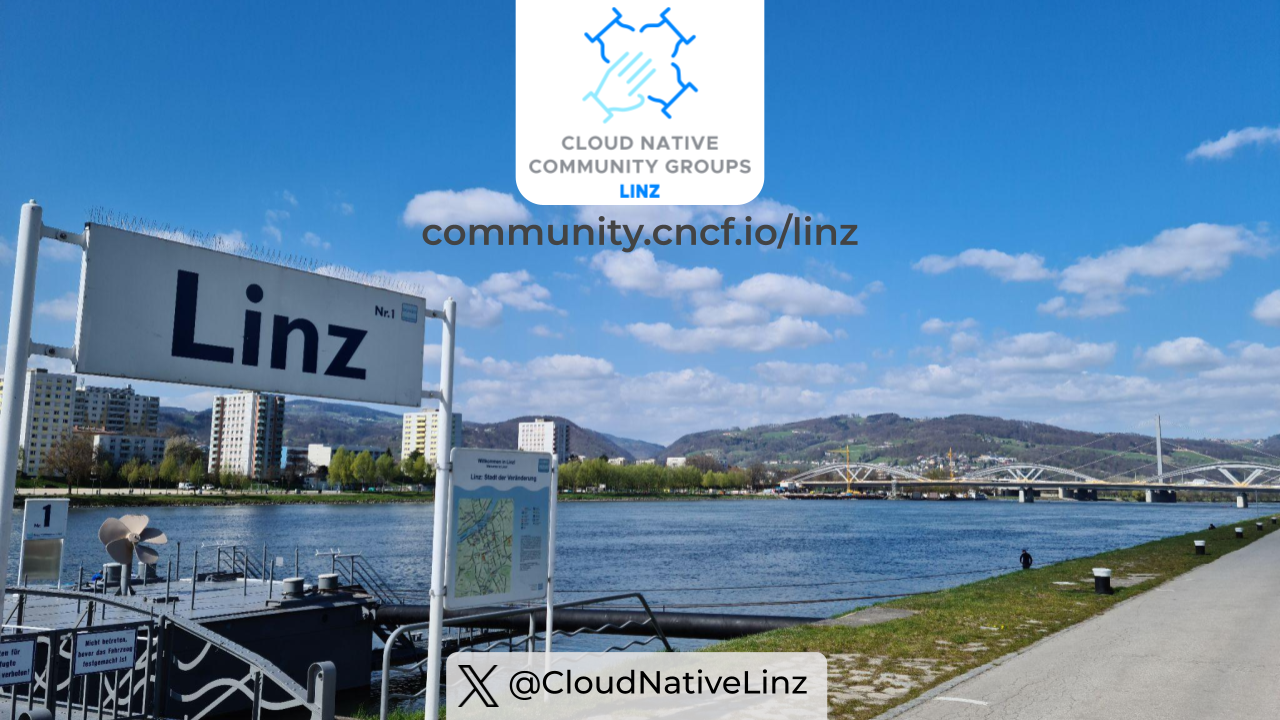
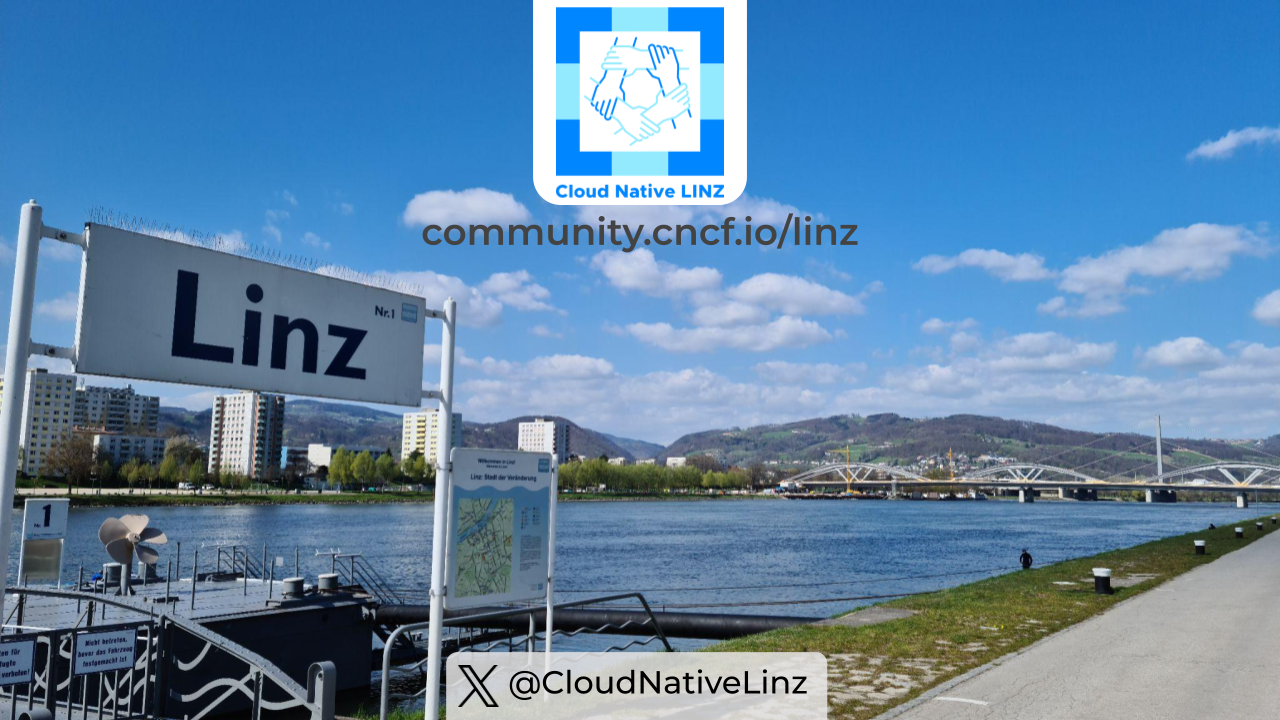
Update branding and team page

Changed region(s): [[0.375, 0.0, 0.625, 0.3056]]

diff --git a/_pages/team.md b/_pages/team.md
@@ -12,7 +12,9 @@ The meetup group is organized by two co-organizers, Juliano and Jürgen.
 <img src="{{ site.baseurl }}/images/juliano.jpg" width="200">
 </div>
 
-Juliano is Senior Software Engineer at Dynatrace Austria, working with all cloud related topics. In the last couple of years mainly focused in OpenTelemetry, he also has experience with Kubernetes, Helm, Containers, Jenkins and so on. Juliano is one of the maintainers of the CNCF project [OpenTelemetry Community Demo](https://github.com/open-telemetry/opentelemetry-demo), which is a microservice-based distributed system intended to illustrate the implementation of OpenTelemetry in a near real-world environment. He believes in the power of the community and this is why he joined forces with Jürgen to build the Cloud Native Computing Linz meetup. You can find more about him in his [LinkedIn profile](https://www.linkedin.com/in/julianocosta89/), where he is happy to connect with everyone.
+Juliano Costa is a software engineer/developer advocate born and raised in Brazil who loves learning new things. In the last couple of years he has put his efforts into cloud technologies and got super excited about it, which made him start a Cloud Native Community Group together with a colleague in Linz (Austria), where he lives now. Besides that he is also a maintainer of the [OpenTelemetry Demo](https://github.com/open-telemetry/opentelemetry-demo). When he is not working with k8s and OpenTelemetry, he is probably spending some time with his wife and his newly deployed baby.
+
+You can find more about him in his [LinkedIn profile](https://www.linkedin.com/in/julianocosta89/), where he is happy to connect with everyone.
 
 <div style="clear:both;"></div>
 

diff --git a/_pages/statistics.md b/_pages/statistics.md
@@ -37,3 +37,4 @@ permalink: /statistics/
 | 26 | [Cloud Native Linz, October 18, 2023 - Testing K8s Operators & OpenTelemetry for Logs](https://community.cncf.io/events/details/cncf-linz-presents-cloud-native-linz-october-18-testing-k8s-operators-amp-opentelemetry-for-logs/) |  | 27 | in person only |
 | 27 | [Cloud Native Linz, November 21, 2023 - GitOps and Testing Cloud Environments](https://community.cncf.io/events/details/cncf-linz-presents-cloud-native-linz-november-21-gitops-and-testing-cloud-environments/) |  | 41 | in person only |
 | 28 | [Cloud Native Linz - January 24 - Cloud Adventure and Cloud Native Sustainability](https://community.cncf.io/events/details/cncf-linz-presents-cloud-native-linz-january-24-cloud-adventure-and-cloud-native-sustainability/) |  | 31 | in person only |
+| 29 | [Cloud Native Linz - February 27 - Access Control and Platforms with Devs in Mind](https://community.cncf.io/events/details/cncf-linz-presents-cloud-native-linz-february-27-access-control-and-platforms-with-devs-in-mind/) |  | 39 | in person only |
